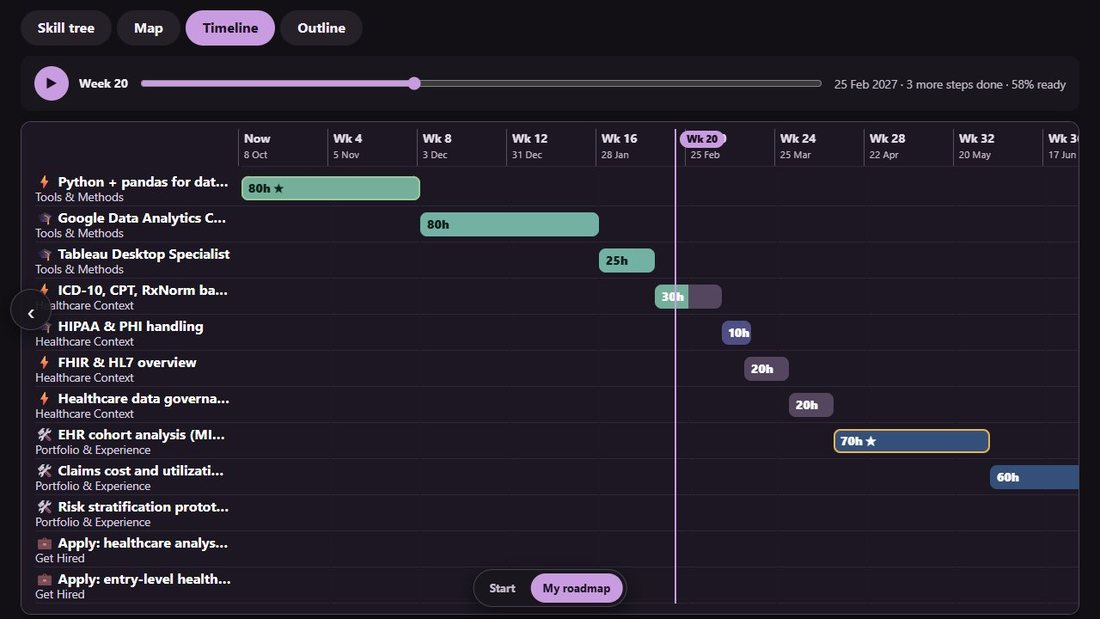
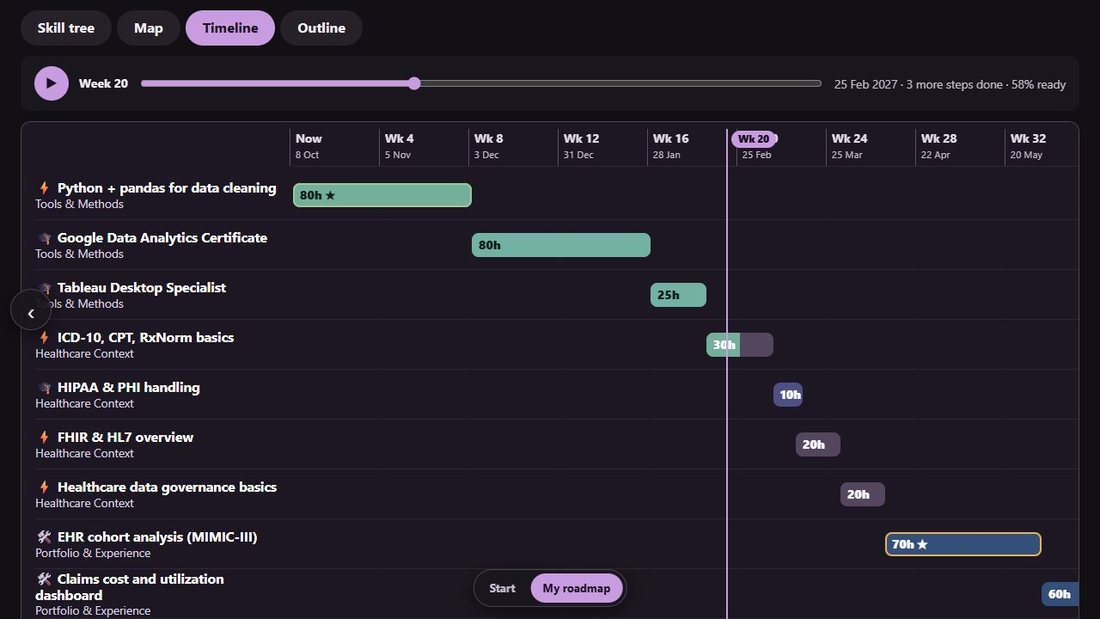
Fix the timeline: show full step names and keep the chart aligned on small screens

Changed region(s): [[0.0309, 0.1842, 0.9891, 1.0], [0.8964, 0.7367, 0.9891, 0.7981], [0.7418, 0.7674, 0.8036, 0.8288]]

diff --git a/frontend/src/styles.css b/frontend/src/styles.css
@@ -395,11 +395,12 @@ input[type='range'] { width: 100%; accent-color: var(--accent); }
 .tl-axis { position: relative; height: 44px; margin-bottom: 4px; border-bottom: 1px solid var(--line); }
 .tl-tick { position: absolute; bottom: 0; transform: translateX(-4px); font-size: 0.78rem; font-weight: 700; color: var(--muted); border-left: 1px solid #3a3140; padding: 0 0 4px 6px; white-space: nowrap; }
 .tl-tick small { display: block; font-weight: 400; color: #8d8296; }
-.tl-row { display: flex; align-items: center; height: 42px; border-bottom: 1px solid #1d1822; }
-.tl-label { position: sticky; left: 0; z-index: 3; flex: none; width: 240px; padding: 0 12px 0 0; background: #0d0b0f; font-weight: 600; font-size: 0.9rem; line-height: 1.2; overflow: hidden; white-space: nowrap; text-overflow: ellipsis; }
+.tl-row { display: flex; align-items: center; height: 58px; border-bottom: 1px solid #1d1822; }
+.tl-label { position: sticky; left: 0; z-index: 3; flex: none; width: var(--tl-label, 300px); padding: 0 12px 0 0; background: #0d0b0f; font-weight: 600; font-size: 0.9rem; line-height: 1.2; overflow: hidden; display: flex; flex-direction: column; justify-content: center; }
+.tl-title { display: -webkit-box; -webkit-line-clamp: 2; -webkit-box-orient: vertical; overflow: hidden; white-space: normal; }
 .tl-label small { display: block; font-weight: 400; color: var(--muted); font-size: 0.75rem; overflow: hidden; text-overflow: ellipsis; }
-.tl-track { position: relative; flex: none; height: 42px; background: repeating-linear-gradient(90deg, transparent 0, transparent 103px, #1d1822 103px, #1d1822 104px); }
-.tl-bar { position: absolute; top: 7px; height: 28px; border: 0; border-radius: 8px; padding: 0 8px; overflow: hidden; background: #3a3140; color: var(--text); text-align: left; display: flex; align-items: center; transition: transform 0.12s, background 0.2s; }
+.tl-track { position: relative; flex: none; height: 58px; background: repeating-linear-gradient(90deg, transparent 0, transparent 103px, #1d1822 103px, #1d1822 104px); }
+.tl-bar { position: absolute; top: 15px; height: 28px; border: 0; border-radius: 8px; padding: 0 8px; overflow: hidden; background: #3a3140; color: var(--text); text-align: left; display: flex; align-items: center; transition: transform 0.12s, background 0.2s; }
 .tl-bar:hover { transform: translateY(-2px); background: #4a4152; }
 .tl-bar.kind-project { background: #2c3a4a; }
 .tl-bar.kind-cert { background: #3a3a52; }
@@ -412,7 +413,7 @@ input[type='range'] { width: 100%; accent-color: var(--accent); }
 .tl-marker { position: absolute; top: 0; bottom: 0; width: 2px; background: var(--accent); z-index: 4; pointer-events: none; transition: left 0.25s linear; }
 .tl-marker span { position: absolute; top: 2px; left: 6px; background: var(--accent); color: var(--on-accent); font-size: 0.72rem; font-weight: 800; padding: 1px 8px; border-radius: 500px; white-space: nowrap; }
 .tl-foot { margin-top: 10px; }
-@media (max-width: 900px) { .tl-label { width: 150px; font-size: 0.82rem; } .tl-label small { display: none; } }
+@media (max-width: 700px) { .tl-label { font-size: 0.82rem; } .tl-label small { display: none; } }
 
 @media (max-width: 900px) { .level-badge { min-width: 120px; padding: 6px 10px; font-size: 0.75rem; } .level-badge .muted { display: none; } }
 
@@ -696,3 +697,6 @@ label { color: #f4eff7; }
 
 /* the skill tree starts small with the whole tree in view; Full screen makes it big */
 .graph.tree:not(.is-full) { height: clamp(440px, 62vh, 600px); }
+
+.tl-label { font-size: 0.98rem; }
+@media (max-width: 700px) { .tl-label { font-size: 0.8rem; } }

diff --git a/frontend/src/components/Timeline.jsx b/frontend/src/components/Timeline.jsx
@@ -3,7 +3,7 @@ import { KINDS, readyByDate } from '../format.js'
 import { futureSummary } from '../graphUtils.js'
 
 const PX = 26        // pixels per week
-const LABEL = 240    // width of the step names on the left
+const labelWidth = () => (typeof window !== 'undefined' && window.innerWidth < 700 ? 140 : 300)   // width of the step names on the left: narrower on a phone
 
 // Your plan as a timeline: one bar per step, placed and sized by the planner. A marker moves through the weeks and fills the bars.
 export default function Timeline({ roadmap, plan, selectedId, onSelect }) {
@@ -25,6 +25,7 @@ export default function Timeline({ roadmap, plan, selectedId, onSelect }) {
   const weeks = Math.max(max, 4)
   const px = Math.max(PX, Math.floor(760 / weeks))      // short plans are stretched so the chart is never tiny
   const trackWidth = weeks * px
+  const LABEL = labelWidth()
   const ticks = Array.from({ length: Math.floor(weeks / 4) + 1 }, (_, i) => i * 4)
   const now = week > 0 ? futureSummary(roadmap, plan, week) : null
 
@@ -47,7 +48,7 @@ export default function Timeline({ roadmap, plan, selectedId, onSelect }) {
       </div>
 
       <div className="tl-scroll" role="region" aria-label="Timeline of your plan. Scroll sideways to see later weeks.">
-        <div className="tl-inner" style={{ width: LABEL + trackWidth + 32 }}>
+        <div className="tl-inner" style={{ width: LABEL + trackWidth + 32, '--tl-label': `${LABEL}px` }}>
           <div className="tl-axis" style={{ marginLeft: LABEL, width: trackWidth }}>
             {ticks.map((w) => <span key={w} className="tl-tick" style={{ left: w * px }}>{w === 0 ? 'Now' : `Wk ${w}`}<small>{readyByDate(w).replace(/ \d{4}$/, '')}</small></span>)}
           </div>
@@ -59,7 +60,8 @@ export default function Timeline({ roadmap, plan, selectedId, onSelect }) {
             const classes = ['tl-bar', `kind-${step.kind}`, info.critical ? 'is-critical' : '', selectedId === step.id ? 'is-selected' : '', fill >= 1 ? 'is-done' : ''].join(' ')
             return (
               <div className="tl-row" key={step.id}>
-                <span className="tl-label"><span aria-hidden="true">{kind.icon}</span> {step.title}
+                <span className="tl-label">
+                  <span className="tl-title" title={step.title}><span aria-hidden="true">{kind.icon}</span> {step.title}</span>
                   <small>{roadmap.phases[step.phase - 1] ?? `Phase ${step.phase}`}</small></span>
                 <div className="tl-track" style={{ width: trackWidth, backgroundImage: `repeating-linear-gradient(90deg, transparent 0, transparent ${px * 4 - 1}px, #1d1822 ${px * 4 - 1}px, #1d1822 ${px * 4}px)` }}>
                   <button type="button" className={classes} style={{ left: start * px, width: Math.max((end - start) * px, 34) }} onClick={() => onSelect(step.id)}
